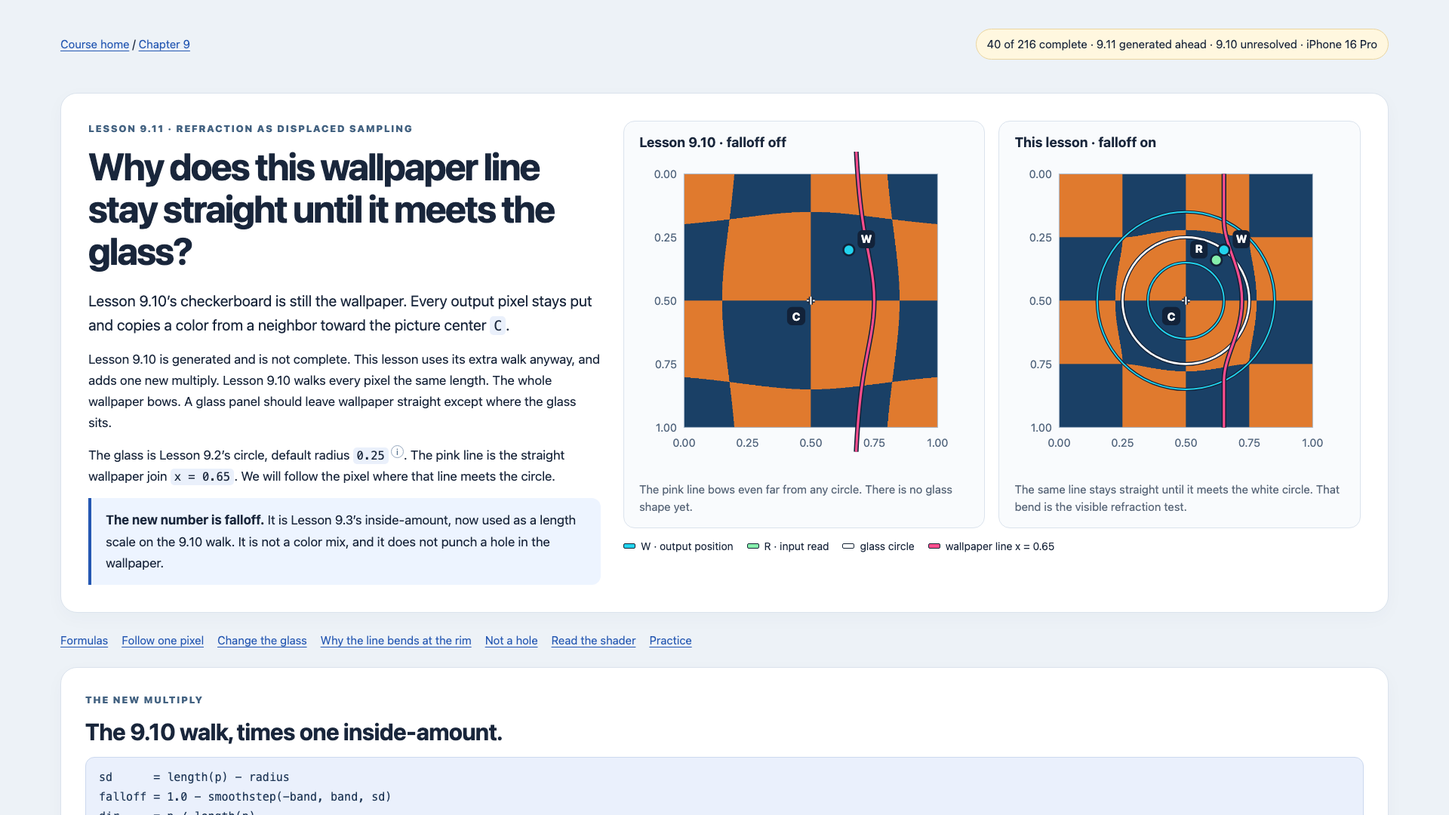
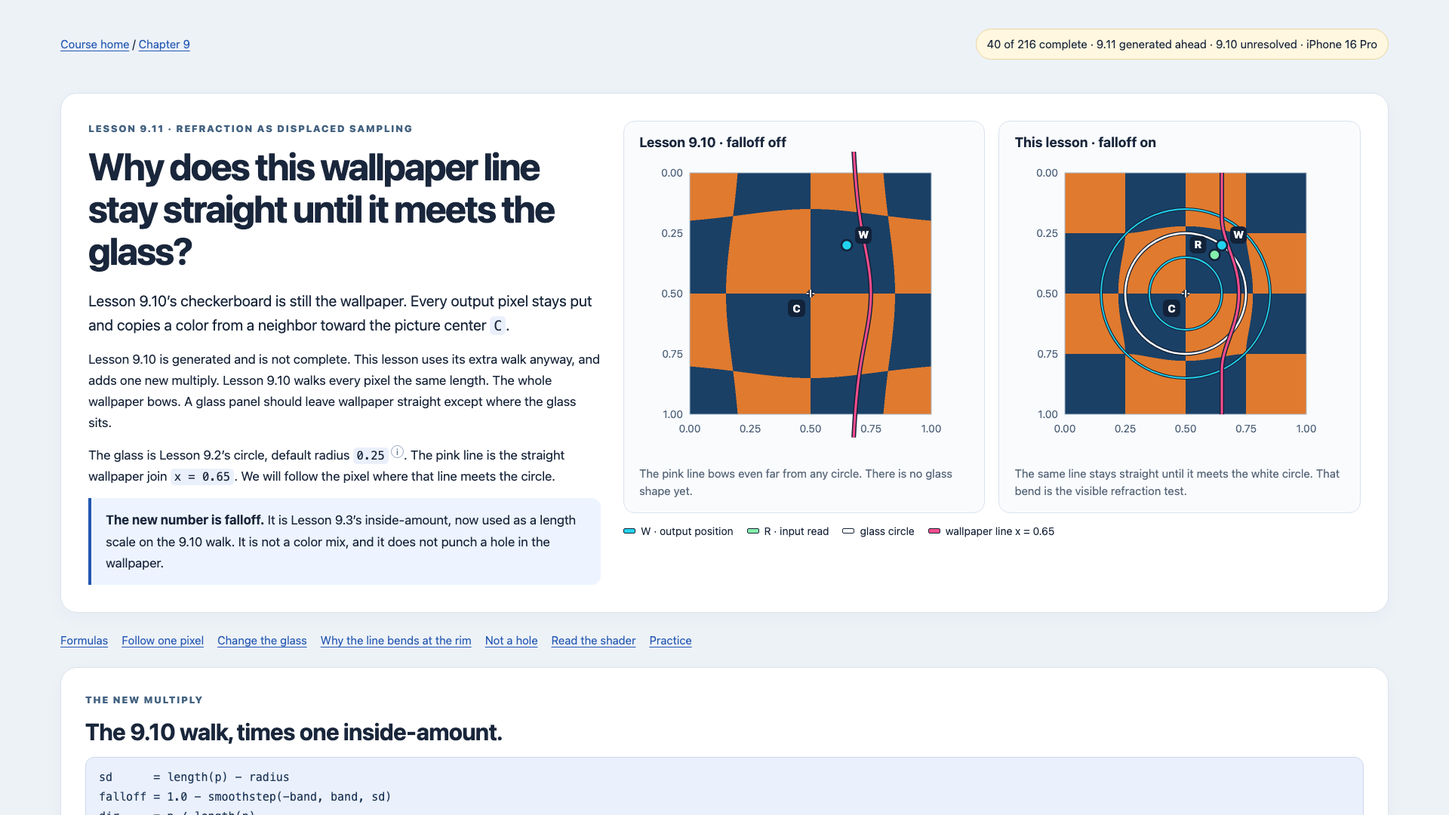
9.11 changes

Changed region(s): [[0.7188, 0.2139, 0.9062, 0.55], [0.4375, 0.1833, 0.6562, 0.55], [0.4375, 0.5806, 0.9375, 0.6722]]

diff --git a/liquid-glass-learning-docs/course/chapters/chapter-09/lesson-09-11-refraction-as-displaced-sampling.html b/liquid-glass-learning-docs/course/chapters/chapter-09/lesson-09-11-refraction-as-displaced-sampling.html
@@ -6,7 +6,7 @@
 <title>Lesson 9.11 — Refraction as displaced sampling</title>
 <style>
 :root{color-scheme:light;--ink:#19263b;--muted:#596779;--line:#dbe3ed;--paper:#fff;--soft:#f3f6fa;--blue:#2457b2;--pink:#ff4d8d;--cyan:#22d3ee;--lime:#86efac;--navy:#1a4066;--orange:#e07a2e;--mono:ui-monospace,SFMono-Regular,Consolas,monospace}
-*{box-sizing:border-box}html{scroll-behavior:smooth;scroll-padding-top:24px}body{margin:0;background:#edf2f7;color:var(--ink);font:17px/1.65 system-ui,-apple-system,BlinkMacSystemFont,"Segoe UI",sans-serif}main{width:calc(100% - 80px);max-width:1760px;margin:28px auto 70px}a{color:#2457b2;text-underline-offset:3px}button,input,textarea{font:inherit}button{cursor:pointer}button:focus-visible,input:focus-visible,summary:focus-visible,a:focus-visible{outline:3px solid #2563eb;outline-offset:3px}h1,h2,h3,p{margin-top:0}h1{font-size:50px;line-height:1.12;letter-spacing:-.04em;margin-bottom:22px}h2{font-size:31px;line-height:1.24;letter-spacing:-.02em;margin-bottom:14px}h3{font-size:21px;line-height:1.35;margin-bottom:12px}p{max-width:100ch;margin-bottom:15px}.eyebrow{font-size:13px;font-weight:850;letter-spacing:.12em;text-transform:uppercase;color:#436281;margin-bottom:12px}.topbar,.footer{display:flex;justify-content:space-between;align-items:center;gap:24px;font-size:15px;padding:10px 0 20px}.badge{background:#fff7df;border:1px solid #ead5a0;padding:7px 14px;border-radius:30px;white-space:nowrap}.panel{background:var(--paper);border:1px solid var(--line);border-radius:22px;padding:32px;margin:24px 0;box-shadow:0 7px 24px #1b345708}.hero{display:grid;grid-template-columns:minmax(0,.82fr) minmax(0,1.18fr);gap:30px;padding:36px}.hero-copy{align-self:center}.lead{font-size:20px;line-height:1.6}.quiet{color:var(--muted)}.small{font-size:14px}.callout{border-left:4px solid var(--blue);padding:15px 19px;background:#edf4ff;border-radius:0 12px 12px 0}.callout p:last-child{margin-bottom:0}.row,.controls{display:flex;align-items:center;gap:12px;flex-wrap:wrap}.two{display:grid;grid-template-columns:repeat(2,minmax(0,1fr));gap:22px}.three{display:grid;grid-template-columns:repeat(3,minmax(0,1fr));gap:18px}.figure-pair{display:grid;grid-template-columns:repeat(2,minmax(0,1fr));gap:18px;align-items:start}.card,figure{margin:0;border:1px solid var(--line);border-radius:15px;padding:18px;background:#f9fbfd;min-width:0}figure{padding:16px 12px}figcaption{padding:0 8px;font-size:15px;color:var(--muted);line-height:1.55}figure h3{padding:0 8px;margin:0;font-size:18px}.picture{display:block;width:100%;max-width:420px;margin:0 auto;height:auto}.diagram{display:block;width:100%;max-width:790px;height:auto;margin:0 auto}.legend{font-size:14px;display:flex;gap:18px;flex-wrap:wrap;margin:12px 0}.key{display:inline-block;width:16px;height:7px;vertical-align:2px;border:1px solid #162536;border-radius:2px;margin-right:7px}.chip{display:inline-block;width:22px;height:18px;vertical-align:-3px;border:1px solid #20314b35;border-radius:5px;margin-right:7px}.btn,button.choice{border:1px solid #c8d4e3;background:#fff;border-radius:10px;color:var(--ink);min-height:42px;padding:8px 15px;font-weight:700}.btn:hover,button.choice:hover{background:#edf4ff}.btn.primary,.btn[aria-pressed=true]{background:#2457b2;color:#fff;border-color:#2457b2}.btn:disabled{cursor:default;opacity:.4}.spaced{margin-top:20px}.navlinks{display:flex;gap:18px;flex-wrap:wrap;font-size:15px;margin:24px 0 4px}.section-intro{max-width:110ch}.walk-grid{display:grid;grid-template-columns:minmax(0,1.08fr) minmax(0,.92fr);gap:26px;align-items:start}.walk-panel{padding:22px;border:1px solid #cbdcf0;border-radius:16px;background:#f4f8ff;min-height:492px}.walk-panel p{margin-bottom:12px}.stepbar{display:flex;align-items:center;justify-content:space-between;gap:20px;margin:20px 0 16px}.steps{display:flex;gap:7px}.steps button{padding:0;width:42px;height:42px;border:1px solid #c8d4e3;border-radius:10px;background:white;font-weight:750}.steps button[aria-current=step]{background:#2457b2;color:#fff;border-color:#2457b2}.stage-number{font-size:13px;font-weight:800;color:#436281;letter-spacing:.06em;margin-bottom:9px}.formula{font:15px/1.72 var(--mono);white-space:pre-wrap;overflow-wrap:anywhere;background:#eaf0fc;border:1px solid #ccd9ef;border-radius:12px;padding:14px 17px;margin:14px 0;color:#1d3555}.code{font:14px/1.7 var(--mono);white-space:pre-wrap;overflow-wrap:anywhere;background:#152237;color:#e8f1ff;border-radius:13px;padding:18px;margin:0}.code code{background:transparent;padding:0;color:inherit;white-space:pre-wrap}.code .active-line{display:block;background:#24456b;margin:0 -10px;padding:0 10px}code{font:.91em var(--mono);background:#eaf0fb;border-radius:5px;padding:2px 5px;overflow-wrap:anywhere}pre{tab-size:4}.v{white-space:nowrap}.info{font:11px/1 system-ui;border:1px solid #94a6bd;color:#355779;background:#fff;width:17px;height:17px;border-radius:50%;padding:0;margin-left:3px;vertical-align:super;cursor:pointer}.pop{position:fixed;width:340px;z-index:100;background:white;border:1px solid #9fb1c8;border-radius:13px;padding:17px;box-shadow:0 12px 40px #12253d30;font-size:14px;line-height:1.6}.pop[hidden]{display:none}.pop button{float:right;margin:-5px -4px 4px 12px;border:0;background:#eef2f7;border-radius:6px;padding:3px 7px}.controlbox{border:1px solid var(--line);background:var(--soft);padding:16px 20px;border-radius:14px;margin:18px 0}.sliders{display:grid;grid-template-columns:1.1fr 1fr 1fr 1fr;gap:22px}.slider label{display:flex;justify-content:space-between;gap:12px;font-size:15px;font-weight:750}.slider input{width:100%;accent-color:#2457b2;margin-top:10px}.readouts{display:grid;grid-template-columns:repeat(3,minmax(0,1fr));gap:14px;margin:16px 0}.readouts>div{border:1px solid var(--line);border-radius:12px;padding:14px 17px;background:#fff}.readouts strong{display:block;font-size:14px;color:var(--muted);margin-bottom:5px}.reading{font-size:18px;font-weight:700}.comparison-layout{display:grid;grid-template-columns:minmax(0,1.1fr) minmax(0,.9fr);gap:26px}.prediction{display:grid;grid-template-columns:repeat(3,minmax(0,1fr));gap:15px}button.choice{text-align:left;line-height:1.55;padding:16px}.choice[aria-pressed=true]{border-color:#2457b2;background:#eaf2ff;box-shadow:inset 0 0 0 1px #2457b2}.result{padding:14px 17px;background:#f0f5fb;border-radius:12px;margin-top:14px;min-height:57px}.challenge-fields{display:flex;align-items:center;gap:9px;flex-wrap:wrap;margin:20px 0}.challenge-fields input{width:70px;border:1px solid #94a6bd;border-radius:8px;padding:8px;text-align:center;font:20px var(--mono)}details{border:1px solid var(--line);border-radius:12px;background:#f8fafc;padding:14px 18px;margin:14px 0}summary{cursor:pointer;font-weight:750}details>p:first-of-type{margin-top:15px}details p:last-child{margin-bottom:0}.record{width:100%;height:235px;resize:vertical;border:1px solid #c7d3e2;border-radius:12px;padding:16px;margin:16px 0 10px;background:#f8fafc;font:14px/1.65 var(--mono);color:var(--ink)}.checks{display:grid;grid-template-columns:1fr 1fr;gap:12px}.checks label{padding:10px 14px;border-radius:9px;background:#f4f7fa}.checks input{margin-right:8px}.walk-panel.tall{min-height:360px}.ex-pair{display:grid;grid-template-columns:repeat(2,minmax(0,1fr));gap:14px;margin:14px 0}.ex-pair figure{margin:0}.ex-pair .picture,.ex-pair .diagram{max-width:100%}.subhead{margin-top:28px}.diagram.compact{max-width:520px}.sr{position:absolute;width:1px;height:1px;overflow:hidden;clip-path:inset(50%)}.svgtext{font-family:system-ui,sans-serif;fill:#26394f;font-size:15px}.svgsmall{font-family:system-ui,sans-serif;fill:#51647c;font-size:14px}.svgbold{font-family:system-ui,sans-serif;fill:#192d45;font-size:16px;font-weight:750}.pill-text{font-family:system-ui,sans-serif;fill:#fff;font-size:14px;font-weight:800}
+*{box-sizing:border-box}html{scroll-behavior:smooth;scroll-padding-top:24px}body{margin:0;background:#edf2f7;color:var(--ink);font:17px/1.65 system-ui,-apple-system,BlinkMacSystemFont,"Segoe UI",sans-serif}main{width:calc(100% - 80px);max-width:1760px;margin:28px auto 70px}a{color:#2457b2;text-underline-offset:3px}button,input,textarea{font:inherit}button{cursor:pointer}button:focus-visible,input:focus-visible,summary:focus-visible,a:focus-visible{outline:3px solid #2563eb;outline-offset:3px}h1,h2,h3,p{margin-top:0}h1{font-size:50px;line-height:1.12;letter-spacing:-.04em;margin-bottom:22px}h2{font-size:31px;line-height:1.24;letter-spacing:-.02em;margin-bottom:14px}h3{font-size:21px;line-height:1.35;margin-bottom:12px}p{max-width:100ch;margin-bottom:15px}.eyebrow{font-size:13px;font-weight:850;letter-spacing:.12em;text-transform:uppercase;color:#436281;margin-bottom:12px}.topbar,.footer{display:flex;justify-content:space-between;align-items:center;gap:24px;font-size:15px;padding:10px 0 20px}.badge{background:#fff7df;border:1px solid #ead5a0;padding:7px 14px;border-radius:30px;white-space:nowrap}.panel{background:var(--paper);border:1px solid var(--line);border-radius:22px;padding:32px;margin:24px 0;box-shadow:0 7px 24px #1b345708}.hero{display:grid;grid-template-columns:minmax(0,.82fr) minmax(0,1.18fr);gap:30px;padding:36px}.hero-copy{align-self:center}.lead{font-size:20px;line-height:1.6}.quiet{color:var(--muted)}.small{font-size:14px}.callout{border-left:4px solid var(--blue);padding:15px 19px;background:#edf4ff;border-radius:0 12px 12px 0}.callout p:last-child{margin-bottom:0}.row,.controls{display:flex;align-items:center;gap:12px;flex-wrap:wrap}.two{display:grid;grid-template-columns:repeat(2,minmax(0,1fr));gap:22px}.three{display:grid;grid-template-columns:repeat(3,minmax(0,1fr));gap:18px}.figure-pair{display:grid;grid-template-columns:repeat(2,minmax(0,1fr));gap:18px;align-items:start}.card,figure{margin:0;border:1px solid var(--line);border-radius:15px;padding:18px;background:#f9fbfd;min-width:0}figure{padding:16px 12px}.panel>figure:has(>svg.picture){width:max-content;max-width:100%;margin-inline:auto}figcaption{padding:0 8px;font-size:15px;color:var(--muted);line-height:1.55}figure h3{padding:0 8px;margin:0;font-size:18px}.picture{display:block;width:100%;max-width:400px;margin:0 auto;height:auto}.diagram{display:block;width:100%;max-width:790px;height:auto;margin:0 auto}.legend{font-size:14px;display:flex;gap:18px;flex-wrap:wrap;margin:12px 0}.key{display:inline-block;width:16px;height:7px;vertical-align:2px;border:1px solid #162536;border-radius:2px;margin-right:7px}.chip{display:inline-block;width:22px;height:18px;vertical-align:-3px;border:1px solid #20314b35;border-radius:5px;margin-right:7px}.btn,button.choice{border:1px solid #c8d4e3;background:#fff;border-radius:10px;color:var(--ink);min-height:42px;padding:8px 15px;font-weight:700}.btn:hover,button.choice:hover{background:#edf4ff}.btn.primary,.btn[aria-pressed=true]{background:#2457b2;color:#fff;border-color:#2457b2}.btn:disabled{cursor:default;opacity:.4}.spaced{margin-top:20px}.navlinks{display:flex;gap:18px;flex-wrap:wrap;font-size:15px;margin:24px 0 4px}.section-intro{max-width:110ch}.walk-grid{display:grid;grid-template-columns:max-content minmax(280px,1fr);gap:26px;align-items:start}.walk-grid>figure{width:424px;max-width:100%}.walk-grid>figure figcaption{max-width:400px}.walk-grid .picture{width:400px;margin:0}.walk-grid .diagram{width:min(760px,100%)}.walk-grid:has(.diagram)>figure{width:min(790px,100%)}.walk-panel{padding:22px;border:1px solid #cbdcf0;border-radius:16px;background:#f4f8ff;min-height:492px}.walk-panel p{margin-bottom:12px}.stepbar{display:flex;align-items:center;justify-content:space-between;gap:20px;margin:20px 0 16px}.steps{display:flex;gap:7px}.steps button{padding:0;width:42px;height:42px;border:1px solid #c8d4e3;border-radius:10px;background:white;font-weight:750}.steps button[aria-current=step]{background:#2457b2;color:#fff;border-color:#2457b2}.stage-number{font-size:13px;font-weight:800;color:#436281;letter-spacing:.06em;margin-bottom:9px}.formula{font:15px/1.72 var(--mono);white-space:pre-wrap;overflow-wrap:anywhere;background:#eaf0fc;border:1px solid #ccd9ef;border-radius:12px;padding:14px 17px;margin:14px 0;color:#1d3555}.code{font:14px/1.7 var(--mono);white-space:pre-wrap;overflow-wrap:anywhere;background:#152237;color:#e8f1ff;border-radius:13px;padding:18px;margin:0}.code code{background:transparent;padding:0;color:inherit;white-space:pre-wrap}.code .active-line{display:block;background:#24456b;margin:0 -10px;padding:0 10px}code{font:.91em var(--mono);background:#eaf0fb;border-radius:5px;padding:2px 5px;overflow-wrap:anywhere}pre{tab-size:4}.v{white-space:nowrap}.info{font:11px/1 system-ui;border:1px solid #94a6bd;color:#355779;background:#fff;width:17px;height:17px;border-radius:50%;padding:0;margin-left:3px;vertical-align:super;cursor:pointer}.pop{position:fixed;width:340px;z-index:100;background:white;border:1px solid #9fb1c8;border-radius:13px;padding:17px;box-shadow:0 12px 40px #12253d30;font-size:14px;line-height:1.6}.pop[hidden]{display:none}.pop button{float:right;margin:-5px -4px 4px 12px;border:0;background:#eef2f7;border-radius:6px;padding:3px 7px}.controlbox{border:1px solid var(--line);background:var(--soft);padding:16px 20px;border-radius:14px;margin:18px 0}.sliders{display:grid;grid-template-columns:1.1fr 1fr 1fr 1fr;gap:22px}.slider label{display:flex;justify-content:space-between;gap:12px;font-size:15px;font-weight:750}.slider input{width:100%;accent-color:#2457b2;margin-top:10px}.readouts{display:grid;grid-template-columns:repeat(3,minmax(0,1fr));gap:14px;margin:16px 0}.readouts>div{border:1px solid var(--line);border-radius:12px;padding:14px 17px;background:#fff}.readouts strong{display:block;font-size:14px;color:var(--muted);margin-bottom:5px}.reading{font-size:18px;font-weight:700}.comparison-layout{display:grid;grid-template-columns:minmax(0,1.1fr) minmax(0,.9fr);gap:26px}.prediction{display:grid;grid-template-columns:repeat(3,minmax(0,1fr));gap:15px}button.choice{text-align:left;line-height:1.55;padding:16px}.choice[aria-pressed=true]{border-color:#2457b2;background:#eaf2ff;box-shadow:inset 0 0 0 1px #2457b2}.result{padding:14px 17px;background:#f0f5fb;border-radius:12px;margin-top:14px;min-height:57px}.challenge-fields{display:flex;align-items:center;gap:9px;flex-wrap:wrap;margin:20px 0}.challenge-fields input{width:70px;border:1px solid #94a6bd;border-radius:8px;padding:8px;text-align:center;font:20px var(--mono)}details{border:1px solid var(--line);border-radius:12px;background:#f8fafc;padding:14px 18px;margin:14px 0}summary{cursor:pointer;font-weight:750}details>p:first-of-type{margin-top:15px}details p:last-child{margin-bottom:0}.record{width:100%;height:235px;resize:vertical;border:1px solid #c7d3e2;border-radius:12px;padding:16px;margin:16px 0 10px;background:#f8fafc;font:14px/1.65 var(--mono);color:var(--ink)}.checks{display:grid;grid-template-columns:1fr 1fr;gap:12px}.checks label{padding:10px 14px;border-radius:9px;background:#f4f7fa}.checks input{margin-right:8px}.walk-panel.tall{min-height:360px}.ex-pair{display:grid;grid-template-columns:repeat(2,minmax(0,1fr));gap:14px;margin:14px 0}.ex-pair figure{margin:0;width:auto}.ex-pair .picture,.ex-pair .diagram{width:100%;max-width:400px}.subhead{margin-top:28px}.diagram.compact{max-width:520px}.diagram.proof{max-width:980px}.proof-layout{display:grid;grid-template-columns:minmax(0,1.45fr) minmax(280px,.7fr);gap:22px;align-items:start}.sr{position:absolute;width:1px;height:1px;overflow:hidden;clip-path:inset(50%)}.svgtext{font-family:system-ui,sans-serif;fill:#26394f;font-size:15px}.svgsmall{font-family:system-ui,sans-serif;fill:#51647c;font-size:14px}.svgbold{font-family:system-ui,sans-serif;fill:#192d45;font-size:16px;font-weight:750}.pill-text{font-family:system-ui,sans-serif;fill:#fff;font-size:14px;font-weight:800}
 </style>
 </head>
 <body>
@@ -90,14 +90,14 @@ sampled = checkerBackground(readUv × resolution, resolution)</div>
 <p class="section-intro">Lesson 9.10 already showed why a constant extra walk bows a grid line. Do not redo that proof. The new picture is a walk whose length is not constant. Far from the circle the extra walk is the zero stick. Deep inside it is the full <code>dispLen</code> stick. Across the band it changes a little whenever distance to C does.</p>
 <div class="stepbar"><button class="btn" id="prevCurve">← Previous</button><div class="steps" id="curveButtons" aria-label="Bend imagination steps"></div><button class="btn primary" id="nextCurve">Next →</button></div>
 <div class="walk-grid">
-<figure><svg class="diagram" id="curveSvg" viewBox="0 0 760 440" role="img" aria-label="Imagination of a wallpaper line meeting the glass"></svg><figcaption id="curveCaption"></figcaption></figure>
+<figure><svg class="picture" id="curveSvg" viewBox="0 0 400 415" role="img" aria-label="Imagination of a wallpaper line meeting the glass"></svg><figcaption id="curveCaption"></figcaption></figure>
 <div class="walk-panel tall"><div class="stage-number" id="curveCount"></div><h3 id="curveTitle"></h3><div id="curveProse"></div><div class="formula" id="curveFormula"></div></div>
 </div>
 
 <h3 class="subhead" id="xySplit">What x does. What y does.</h3>
 <p>At teaching W the extra walk is one stick of length <code>dispLen × falloff = 0.05</code>. That stick is a 3-4-5: 0.03 right and 0.04 up (minus y is up). Drag along the wallpaper line. Outside the band both legs are zero.</p>
 <div class="walk-grid">
-<figure><svg class="diagram" id="xySvg" viewBox="0 0 760 440" role="img" aria-label="Split of the extra walk into horizontal and vertical legs"></svg><figcaption>Lime is the extra walk at this seat. Cyan is its sideways leg from <code>p.x</code>. Violet is its up/down leg from <code>p.y</code>. Pink is the apparent wallpaper line.</figcaption></figure>
+<figure><svg class="picture" id="xySvg" viewBox="0 0 400 415" role="img" aria-label="Split of the extra walk into horizontal and vertical legs"></svg><figcaption>Lime is the extra walk at this seat. Cyan is its sideways leg from <code>p.x</code>. Violet is its up/down leg from <code>p.y</code>. Pink is the apparent wallpaper line.</figcaption></figure>
 <div>
 <div class="controlbox">
 <div class="slider"><label for="edgeY">Point on the wallpaper line x = 0.65 · y <output id="edgeYValue"></output></label><input type="range" id="edgeY" min="0" max="1" step="0.001" value="0.30"></div>
@@ -114,8 +114,8 @@ sd = d − 0.25
 extra walk length at a write = dispLen × falloff(sd)
 The apparent line is the set of writes whose reads sit on x = 0.65.</div>
 <p>A single straight join from the far-outside landing to the equator landing would have the form x = a + b × y. The boundary landing sits off that join. Two straight halves that meet at the equator (a tent) would still put the in-between landing on one of those halves. It does not. <code>d</code> changes a little with every slide of y, so falloff changes a little every time, so the slope turns continuously. There is no ridge at the rim.</p>
-<div class="walk-grid">
-<figure><svg class="diagram compact" id="proofSvg" viewBox="0 0 520 280" role="img" aria-label="Actual apparent line versus a straight join and a tent"></svg><figcaption>Gray: original x = 0.65. Cyan: one straight join through the outside landing and the equator landing. Violet: tent of two straight halves. Pink: actual landings. Dot Q is the boundary landing on the top half only.</figcaption></figure>
+<div class="proof-layout">
+<figure><svg class="diagram proof" id="proofSvg" viewBox="0 0 980 560" role="img" aria-label="Large plot of the apparent line versus a straight join and a tent, with a zoom of the gap at Q"></svg><figcaption>Left: the whole join. Gray is the original x = 0.65. Pink is the actual landings. Cyan is one straight join through the outside landing and the equator. Violet is a tent of two straight halves. Right: the same gap at Q, enlarged. Q is the boundary landing on the top half only.</figcaption></figure>
 <div>
 <div class="formula" id="proofTable"></div>
 <div class="callout"><p><strong>In one sentence.</strong> Extra walk length depends on y only through <code>d = sqrt(0.15² + (y − 0.50)²)</code>, which is not a linear function of y on either half of C, so the apparent line is a curve, not one straight line and not two straight halves glued at the equator.</p></div>
@@ -433,7 +433,7 @@ const curveSteps=[
   {title:'The peel is a curve',prose:'<p>The equator peels farther than the crossing, because it is deeper inside. The two halves mirror. Far below, the line is straight again. Neighboring joins do the same if they meet the circle. A join that misses never peels.</p>',formula:'landing y is not a + b × y on either half of C.\nDeleting × falloff restores a 9.10 bow on every join.',caption:'Pink is the true apparent line. It continues as a straight join outside the circle.'}
 ];
 function curveDrawing(){
-  const p={x:48,y:28,s:330},t=current();
+  const p=PLOT,t=current();
   let s=frame(state.curveStep===0?'input':'output',t,p,false)+glass(p);
   s+=inputLine(LINE_U,p,'#94a3b8');
   if(state.curveStep>=1)s+=wallpaper(LINE_U,t.len,t.radius,t.band,true,p);
@@ -467,7 +467,7 @@ function updateCurve(){
 function updateXY(){
   const y=state.edgeY;
   const t=trace(LINE_U,y,state.len,state.radius,state.band,true);
-  const p={x:48,y:28,s:330};
+  const p=PLOT;
   let s=frame('output',current(),p,false)+glass(p)+wallpaper(LINE_U,state.len,state.radius,state.band,true,p);
   const w=xy(t.u,t.v,p),r=xy(t.ru,t.rv,p),c=xy(.5,.5,p);
   s+=arrow(w,r,colors.lime,3);
@@ -487,21 +487,58 @@ function updateXY(){
 }
 function proofDrawing(){
   const t=current();
-  const p={x:36,y:20,s:240};
+  const p={x:56,y:36,s:460};
   const L10=landingOf(LINE_U,0.10,t.len,t.radius,t.band,true);
   const L30=landingOf(LINE_U,0.30,t.len,t.radius,t.band,true);
   const L50=landingOf(LINE_U,0.50,t.len,t.radius,t.band,true);
-  const L70=landingOf(LINE_U,0.70,t.len,t.radius,t.band,true);
   const L90=landingOf(LINE_U,0.90,t.len,t.radius,t.band,true);
-  let s=frame('output',t,p,false)+glass(p,t.radius,t.band);
-  s+=inputLine(LINE_U,p,'#94a3b8');
-  s+=wallpaper(LINE_U,t.len,t.radius,t.band,true,p);
-  s+=line(xy(L10.u,L10.v,p),xy(L50.u,L50.v,p),colors.cyan,2);
-  s+=line(xy(L50.u,L50.v,p),xy(L90.u,L90.v,p),colors.violet,2);
-  s+=dot(L10.u,L10.v,colors.white,'1',p,[11,-12])+dot(L30.u,L30.v,colors.cyan,'Q',p,[11,-12])+dot(L50.u,L50.v,colors.pink,'eq',p,[11,20]);
   const tJoin=(L30.v-L10.v)/(L50.v-L10.v);
   const joinU=L10.u+tJoin*(L50.u-L10.u);
-  $('proofTable').textContent=`outside landing ≈ ${pair(L10.u,L10.v,3)}\nboundary landing Q ≈ ${pair(L30.u,L30.v,3)}\nequator landing ≈ ${pair(L50.u,L50.v,3)}\nstraight-join x at Q’s y ≈ ${f(joinU,3)}\nQ sits off that join by ≈ ${f(joinU-L30.u,3)}`;
+  const gap=joinU-L30.u;
+  let s=frame('output',t,p,true)+glass(p,t.radius,t.band);
+  s+=inputLine(LINE_U,p,'#94a3b8');
+  s+=wallpaper(LINE_U,t.len,t.radius,t.band,true,p);
+  s+=line(xy(L10.u,L10.v,p),xy(L50.u,L50.v,p),colors.cyan,3);
+  s+=line(xy(L50.u,L50.v,p),xy(L90.u,L90.v,p),colors.violet,3);
+  s+=dot(L10.u,L10.v,colors.white,'1',p,[-28,-14]);
+  s+=dot(L30.u,L30.v,colors.cyan,'Q',p,[14,-16]);
+  s+=dot(L50.u,L50.v,colors.pink,'eq',p,[16,22]);
+  s+=centerMark(p);
+  const span=0.10;
+  const midU=(L30.u+joinU)/2, midV=L30.v;
+  const z={x:560,y:72,s:360};
+  const zxy=(u,v)=>[z.x+(u-(midU-span/2))/span*z.s, z.y+(v-(midV-span/2))/span*z.s];
+  s+=`<defs><clipPath id="proofZoomClip"><rect x="${z.x}" y="${z.y}" width="${z.s}" height="${z.s}" rx="10"/></clipPath></defs>`;
+  s+=`<rect x="${z.x}" y="${z.y}" width="${z.s}" height="${z.s}" rx="10" fill="#f8fafc" stroke="${colors.ink}"/>`;
+  s+=text(z.x+z.s/2,z.y-12,'Zoom at Q · cyan join versus the landing','svgbold','middle');
+  s+=`<g clip-path="url(#proofZoomClip)">`;
+  const grayA=zxy(LINE_U,midV-span/2), grayB=zxy(LINE_U,midV+span/2);
+  s+=line(grayA,grayB,'#94a3b8',3);
+  const cyanA=zxy(L10.u,L10.v), cyanB=zxy(L50.u,L50.v);
+  s+=line(cyanA,cyanB,colors.cyan,4);
+  const pinkPts=[];
+  for(let i=0;i<=48;i++){
+    const y=0.18+i/48*0.24;
+    const L=landingOf(LINE_U,y,t.len,t.radius,t.band,true);
+    pinkPts.push(zxy(L.u,L.v));
+  }
+  s+=pathPoints(pinkPts,colors.pink,4);
+  const qz=zxy(L30.u,L30.v), jz=zxy(joinU,L30.v);
+  s+=line(qz,jz,'#fff',6,false)+line(qz,jz,colors.ink,2.5,false);
+  s+=`</g>`;
+  s+=`<circle cx="${qz[0]}" cy="${qz[1]}" r="8" fill="${colors.cyan}" stroke="${colors.ink}" stroke-width="2.5"/>`;
+  s+=`<circle cx="${jz[0]}" cy="${jz[1]}" r="8" fill="${colors.white}" stroke="${colors.ink}" stroke-width="2.5"/>`;
+  s+=text(qz[0]-14,qz[1]-16,'Q','svgbold','end');
+  s+=text(jz[0]+14,jz[1]-16,'join','svgbold','start');
+  const bracketY=Math.min(z.y+z.s-28, Math.max(z.y+28, qz[1]+36));
+  s+=line([qz[0],qz[1]+10],[qz[0],bracketY],colors.ink,1.4,false);
+  s+=line([jz[0],jz[1]+10],[jz[0],bracketY],colors.ink,1.4,false);
+  s+=line([qz[0],bracketY],[jz[0],bracketY],colors.ink,1.8,false);
+  s+=text((qz[0]+jz[0])/2,bracketY+18,`gap ≈ ${f(gap,3)}`,'svgbold','middle');
+  s+=`<rect x="${z.x}" y="${z.y+z.s+14}" width="14" height="8" fill="#94a3b8"/><text x="${z.x+20}" y="${z.y+z.s+22}" class="svgsmall">original line</text>`;
+  s+=`<rect x="${z.x+150}" y="${z.y+z.s+14}" width="14" height="8" fill="${colors.cyan}"/><text x="${z.x+170}" y="${z.y+z.s+22}" class="svgsmall">straight join</text>`;
+  s+=`<rect x="${z.x+290}" y="${z.y+z.s+14}" width="14" height="8" fill="${colors.pink}"/><text x="${z.x+310}" y="${z.y+z.s+22}" class="svgsmall">actual landing</text>`;
+  $('proofTable').textContent=`outside landing 1 ≈ ${pair(L10.u,L10.v,3)}\nboundary landing Q ≈ ${pair(L30.u,L30.v,3)}\nequator landing eq ≈ ${pair(L50.u,L50.v,3)}\nstraight-join x at Q’s y ≈ ${f(joinU,3)}\nQ sits off that join by ≈ ${f(gap,3)}`;
   return s;
 }
 function gridPicture(){

diff --git a/liquid-glass-learning-docs/AGENTS.md b/liquid-glass-learning-docs/AGENTS.md
@@ -1158,3 +1158,11 @@ Recorded 2026-09-14 after the learner read the spoke section and still did not h
 4. **Do not prove a curve by rotating a square.** Rotation is a different operation and keeps straight sides. Cut it.
 5. **Do not enlarge a checker past ordinary picture size** (`max-width` ~420) unless the extra pixels carry a new measurement. A 640-tall “window −0.60 to 1.60” that only restates the bow is a failed figure.
 6. **Shorten restatement.** After W → R is known, one reminder sentence is enough. Fence metaphors, repeated “same extra length” paragraphs, and dual captions that repeat the walk-panel do not replace the two proofs above.
+
+### Size by overlay density, not leftover viewBox — Lesson 9.11
+
+Recorded 2026-09-16. Sparse checkers sat in a 760×440 viewBox with a 330 plot, so empty SVG padding made a thin picture look huge. The tent / straight-join / curve proof used `.diagram.compact` and a 240 plot, so cyan, violet, pink, and the Q / eq labels collided.
+
+1. **ViewBox matches drawn content.** If the explanation lives in an HTML column, the SVG is the plot plus axes (about a 400×415 picture). Do not leave a blank right half inside a 760-wide viewBox.
+2. **Overlay density sets plot size.** One checker plus one line stays ordinary picture size (~420). A figure that must show a curve, a straight join, a tent, and named landings at once gets a larger plot and a zoom of the measured gap. `.compact` is forbidden on that proof figure.
+3. **Empty padding is not a measurement.** Extra pixels have to show a gap, a zoom, or a second construction. Otherwise shrink.
